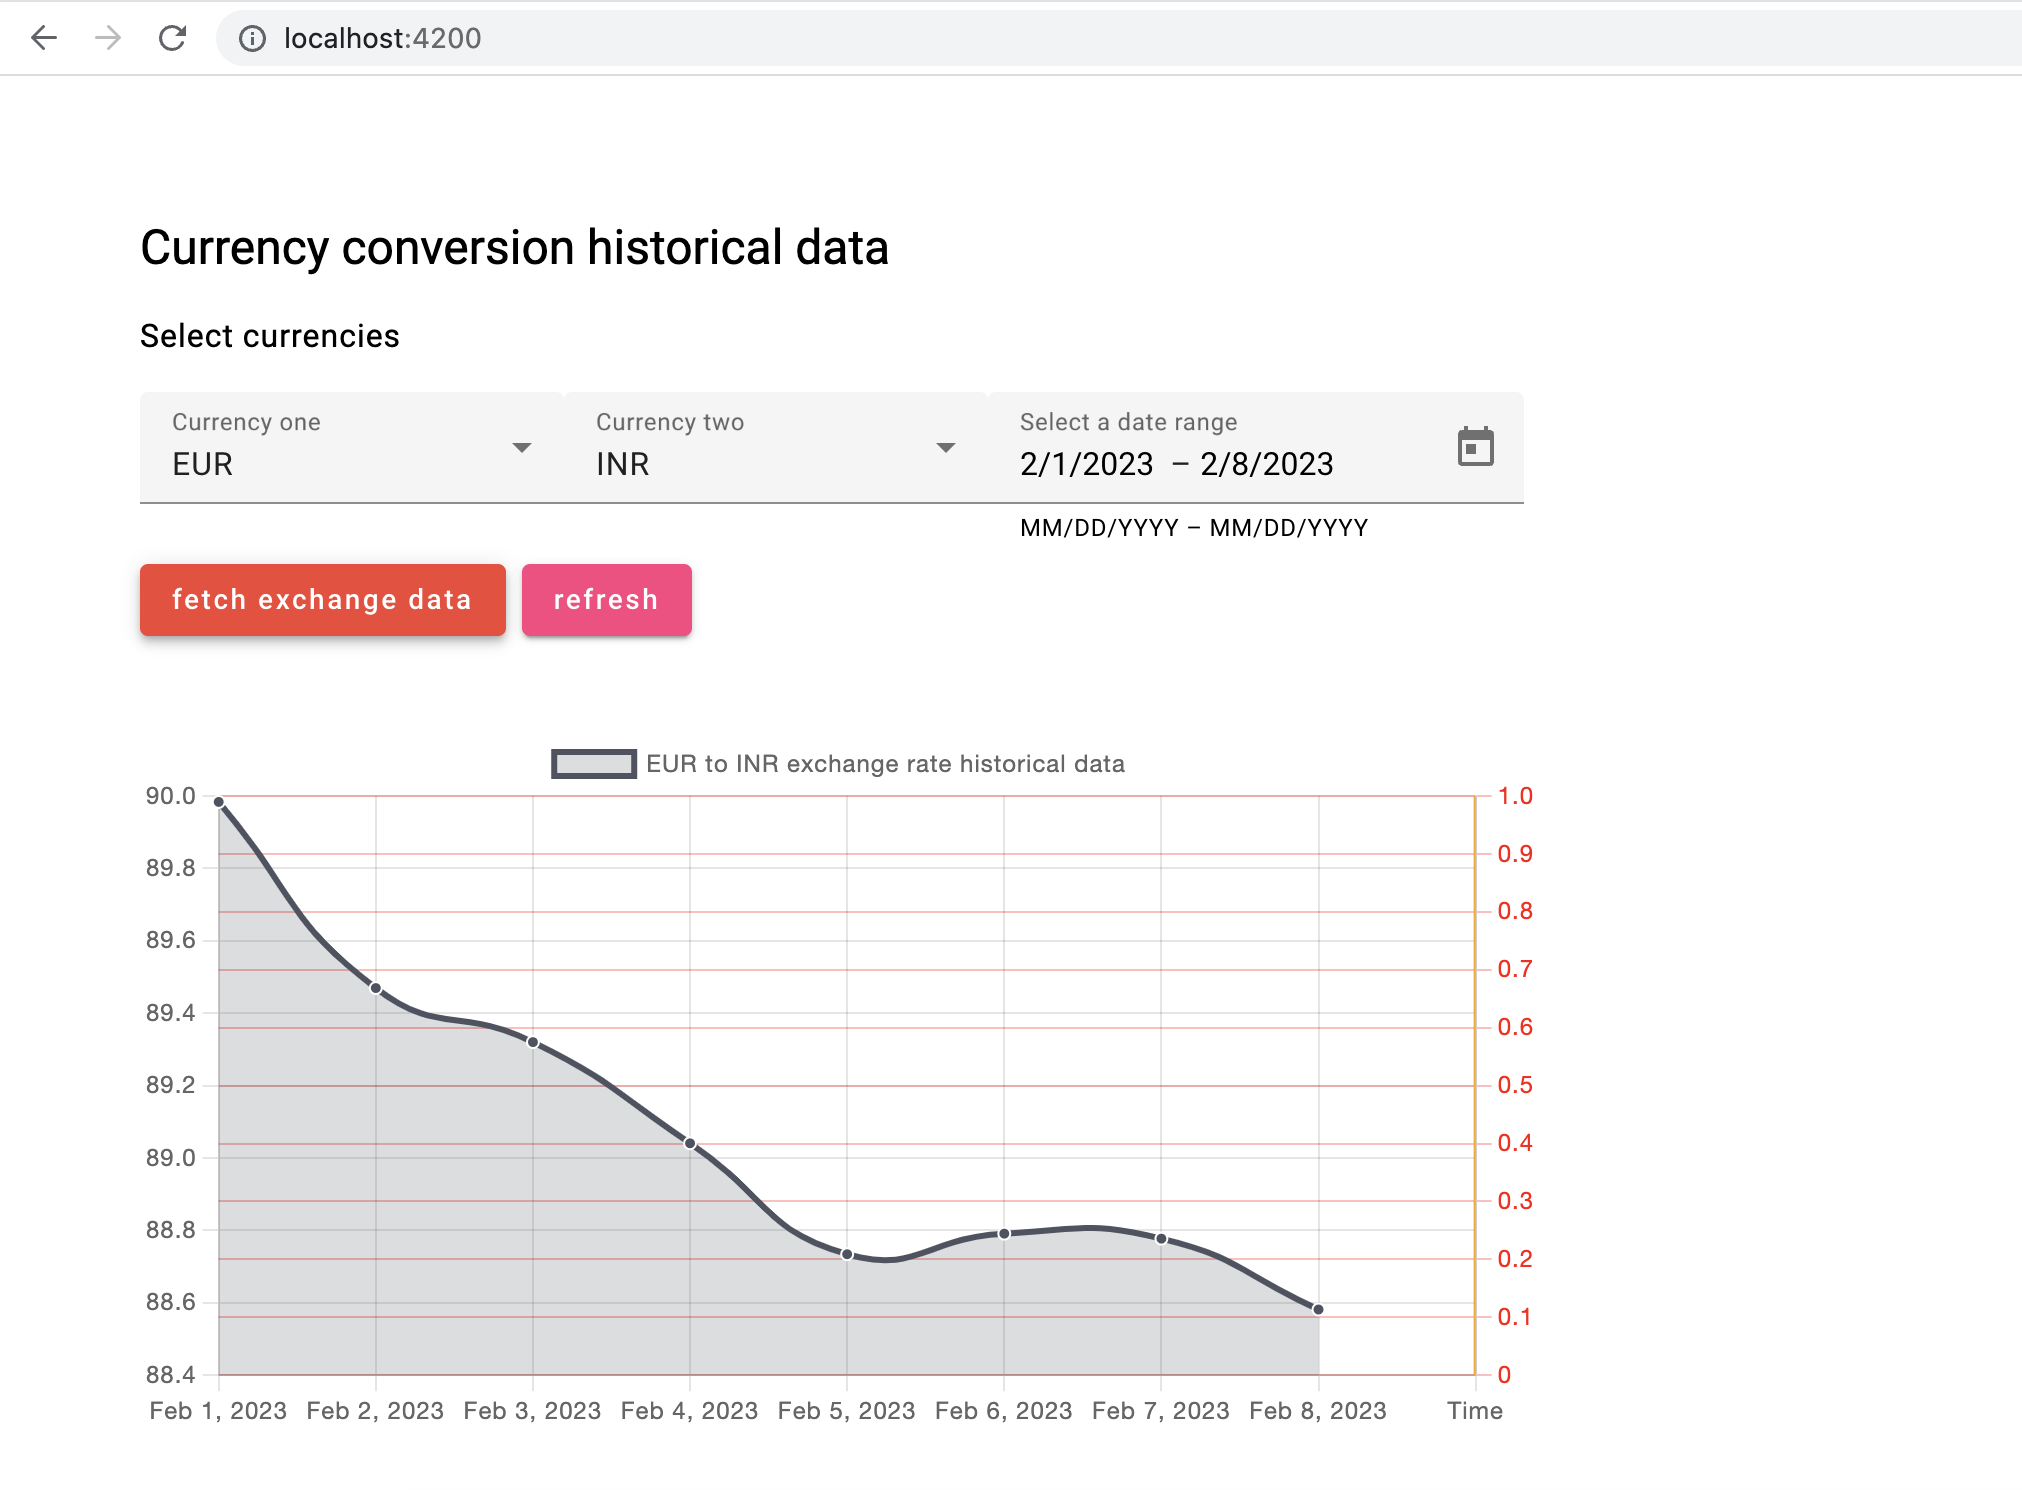
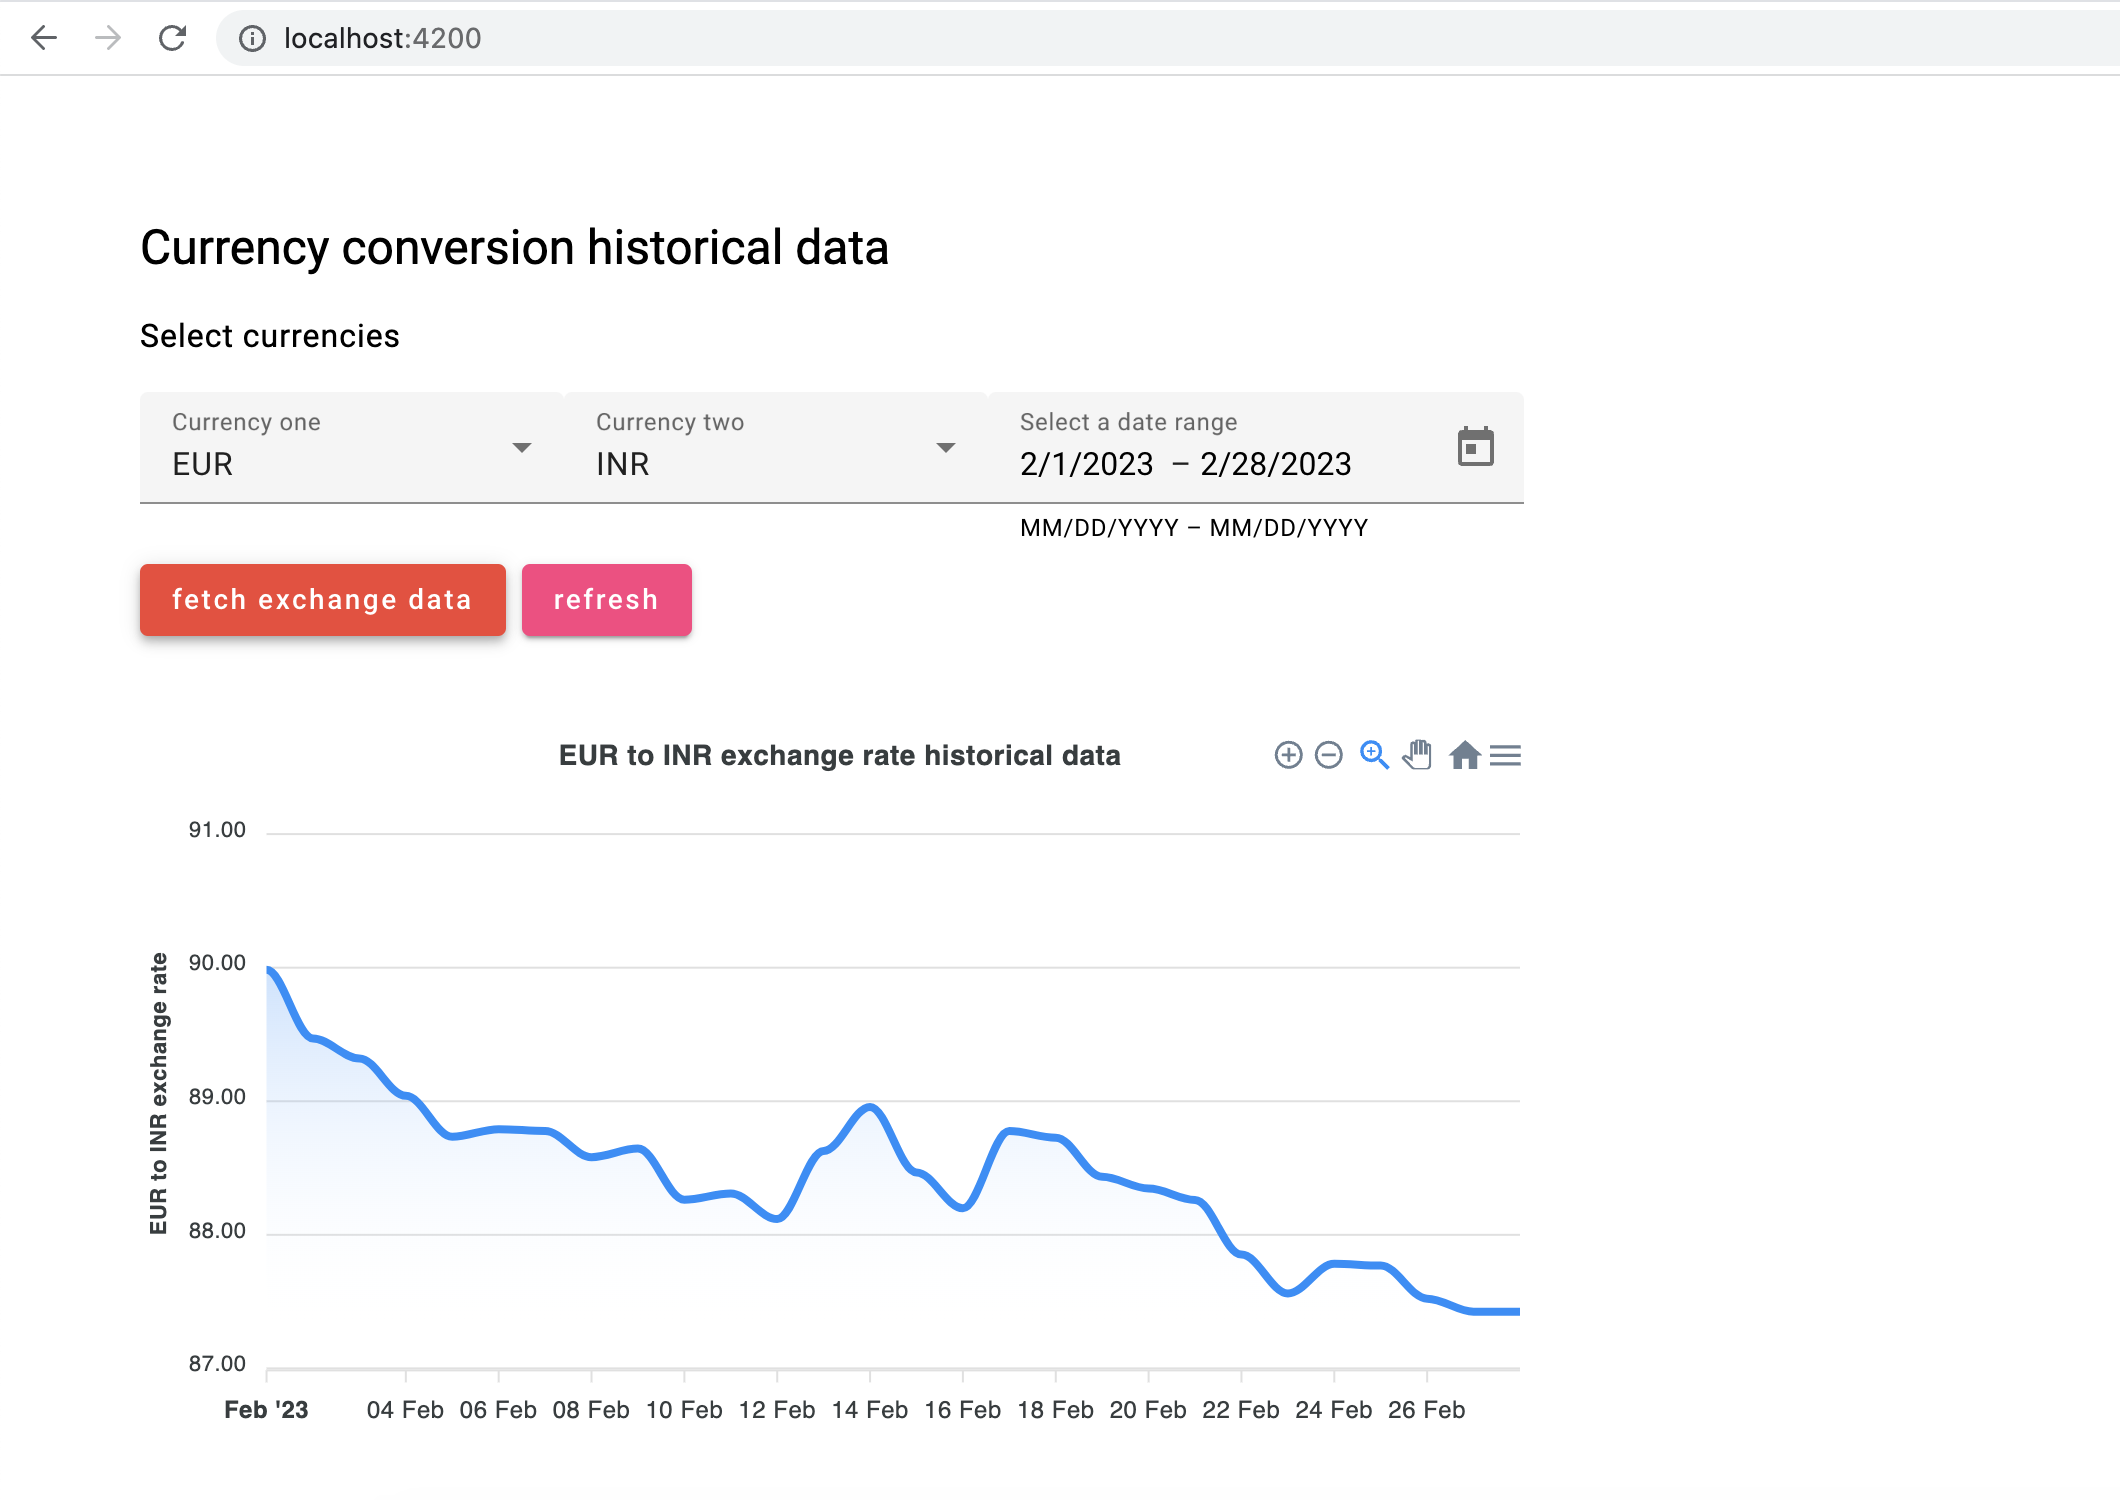
Add apexcharts

diff --git a/Angular/currency_conversion/src/app/api/api.component.ts b/Angular/currency_conversion/src/app/api/api.component.ts
@@ -2,11 +2,17 @@ import { Component, OnInit } from '@angular/core';
 import { ApiService } from './api.service';
 import { FormGroup, FormControl } from '@angular/forms';
 import { CurrenciesSchema } from './api.service';
-import { ViewChild } from '@angular/core';
-import { Chart, ChartConfiguration, ChartEvent, ChartType } from 'chart.js';
-import { BaseChartDirective } from 'ng2-charts';
-
-import { default as Annotation } from 'chartjs-plugin-annotation';
+import {
+    ApexAxisChartSeries,
+    ApexChart,
+    ApexTitleSubtitle,
+    ApexDataLabels,
+    ApexFill,
+    ApexMarkers,
+    ApexYAxis,
+    ApexXAxis,
+    ApexTooltip
+} from "ng-apexcharts";
 
 
 @Component({
@@ -25,9 +31,9 @@ export class ApiComponent implements OnInit {
         start: new FormControl<Date | null>(null),
         end: new FormControl<Date | null>(null),
     });
+    dataPoints: [number, number][] = [];
 
     constructor(private apiService: ApiService) {
-        Chart.register(Annotation);
     }
 
     ngOnInit() {
@@ -59,104 +65,92 @@ export class ApiComponent implements OnInit {
         )
             .subscribe(data => {
                 console.log(data);
-                let dataX: string[] = [];
-                let dataY: number[] = [];
+                this.dataPoints = [];
                 let rates = data.rates;
                 let dates = Object.keys(rates)
                 let values: { String: Number }[] = Object.values(rates)
                 for (let i = 0; i < values.length; i++) {
-                    dataY.push(Number(Object.values(values[i])[0]));
-                    dataX.push(new Date(dates[i]).toLocaleString('en-us', { month: 'short', day: 'numeric', year: 'numeric' }));
-                    this.lineChartData.datasets[0].data = dataY;
-                    this.lineChartData.labels = dataX;
-                    this.lineChartData.datasets[0].label = `${this.selectedCurrencyOne} to ${this.selectedCurrencyTwo} exchange rate historical data`
-                    this.chart?.update();
+                    this.dataPoints.push([new Date(dates[i]).getTime(), Number(Object.values(values[i])[0])]);
+                    this.initChartData();
                 }
             });
     }
 
     refresh() {
-        window.location.reload();
-        this.chart?.update();
+        this.initChartData();
+        // window.location.reload();
     }
 
-    public lineChartData: ChartConfiguration['data'] = {
-        datasets: [
-            {
-                data: [],
-                label: 'Currency exchange historical data',
-                backgroundColor: 'rgba(77,83,96,0.2)',
-                borderColor: 'rgba(77,83,96,1)',
-                pointBackgroundColor: 'rgba(77,83,96,1)',
-                pointBorderColor: '#fff',
-                pointHoverBackgroundColor: '#fff',
-                pointHoverBorderColor: 'rgba(77,83,96,1)',
-                fill: 'origin',
-            }
-        ],
-        labels: []
-    };
+    public series: ApexAxisChartSeries;
+    public chart: ApexChart;
+    public dataLabels: ApexDataLabels;
+    public markers: ApexMarkers;
+    public titleChart: ApexTitleSubtitle;
+    public fill: ApexFill;
+    public yaxis: ApexYAxis;
+    public xaxis: ApexXAxis;
+    public tooltip: ApexTooltip;
 
-    public lineChartOptions: ChartConfiguration['options'] = {
-        responsive: true,
-        maintainAspectRatio: true,
-        elements: {
-            line: {
-                tension: 0.5
-            }
-        },
-        scales: {
-            // We use this empty structure as a placeholder for dynamic theming.
-            y:
+    public initChartData(): void {
+        this.series = [
             {
-                position: 'left',
+                name: `${this.selectedCurrencyTwo}`,
+                data: this.dataPoints
+            }
+        ];
+        this.chart = {
+            type: "area",
+            stacked: false,
+            height: 350,
+            zoom: {
+                type: "x",
+                enabled: true,
+                autoScaleYaxis: true
             },
-            y1: {
-                position: 'right',
-                grid: {
-                    color: 'rgba(255,0,0,0.3)',
-                },
-                ticks: {
-                    color: 'red'
+            toolbar: {
+                autoSelected: "zoom"
+            }
+        };
+        this.dataLabels = {
+            enabled: false
+        };
+        this.markers = {
+            size: 0
+        };
+        this.titleChart = {
+            text: `${this.selectedCurrencyOne} to ${this.selectedCurrencyTwo} exchange rate historical data`,
+            align: "center"
+        };
+        this.fill = {
+            type: "gradient",
+            gradient: {
+                shadeIntensity: 1,
+                inverseColors: false,
+                opacityFrom: 0.5,
+                opacityTo: 0,
+                stops: [0, 90, 100]
+            }
+        };
+        this.yaxis = {
+            labels: {
+                formatter: function (val) {
+                    return (val).toFixed(2);
+                }
+            },
+            title: {
+                text: `${this.selectedCurrencyOne} to ${this.selectedCurrencyTwo} exchange rate`
+            }
+        };
+        this.xaxis = {
+            type: "datetime"
+        };
+        this.tooltip = {
+            shared: false,
+            y: {
+                formatter: function (val) {
+                    return (val).toFixed(2);
                 }
             }
-        },
-
-        plugins: {
-            legend: { display: true },
-            annotation: {
-                annotations: [
-                    {
-                        type: 'line',
-                        scaleID: 'x',
-                        value: 'Time',
-                        borderColor: 'orange',
-                        borderWidth: 2,
-                        label: {
-                            display: false,
-                            position: 'center',
-                            color: 'orange',
-                            content: 'LineAnno',
-                            font: {
-                                weight: 'bold'
-                            }
-                        }
-                    },
-                ],
-            }
-        }
-    };
-
-    public lineChartType: ChartType = 'line';
-
-    @ViewChild(BaseChartDirective) chart?: BaseChartDirective;
-
-    // events
-    public chartClicked({ event, active }: { event?: ChartEvent, active?: {}[] }): void {
-        console.log(event, active);
-    }
-
-    public chartHovered({ event, active }: { event?: ChartEvent, active?: {}[] }): void {
-        console.log(event, active);
+        };
     }
 }

diff --git a/Angular/currency_conversion/src/app/app.module.ts b/Angular/currency_conversion/src/app/app.module.ts
@@ -18,6 +18,7 @@ import { ApiComponent } from './api/api.component';
 import { MatMenuModule } from '@angular/material/menu';
 import { MatSelectModule } from '@angular/material/select';
 import { NgChartsModule } from 'ng2-charts';
+import { NgApexchartsModule } from "ng-apexcharts";
 
 @NgModule({
   declarations: [
@@ -42,7 +43,8 @@ import { NgChartsModule } from 'ng2-charts';
     HttpClientModule,
     MatMenuModule,
     MatSelectModule,
-    NgChartsModule
+    NgChartsModule,
+    NgApexchartsModule,
   ],
   exports: [
     MatFormFieldModule,

diff --git a/Angular/currency_conversion/src/app/api/api.component.html b/Angular/currency_conversion/src/app/api/api.component.html
@@ -47,6 +47,6 @@
 
 <div style="display: block; width: 700px">
 
-    <canvas baseChart class="chart" [data]="lineChartData" [options]="lineChartOptions" [type]="lineChartType"
-        (chartHover)="chartHovered($event)" (chartClick)="chartClicked($event)"></canvas>
+    <apx-chart [series]="series" [chart]="chart" [dataLabels]="dataLabels" [markers]="markers" [title]="titleChart"
+        [fill]="fill" [yaxis]="yaxis" [xaxis]="xaxis" [tooltip]="tooltip" [autoUpdateSeries]="true"></apx-chart>
 </div>

diff --git a/Angular/currency_conversion/README.md b/Angular/currency_conversion/README.md
@@ -76,9 +76,8 @@ brew install node
 npm install axios
 npm install -g @angular/cli
 npm install @angular-devkit/build-angular
-npm install --save ng2-charts
-npm install --save chart.js
-npm install chartjs-plugin-annotation
+npm install apexcharts --save
+npm install ng-apexcharts --save
 ng add @angular/material
 ng serve
 ```
